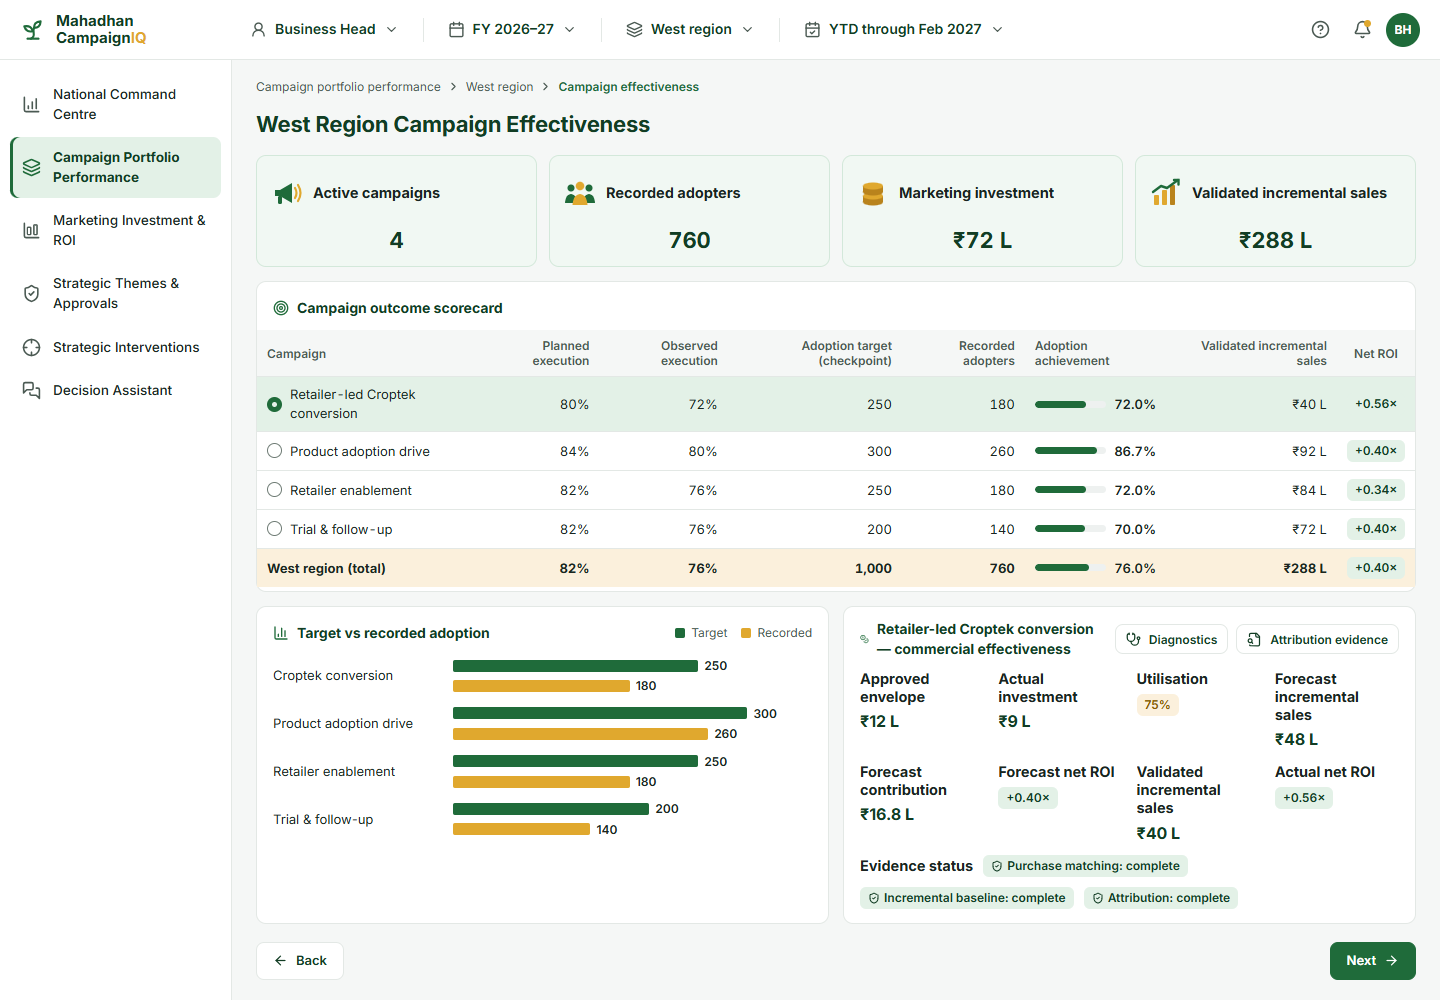
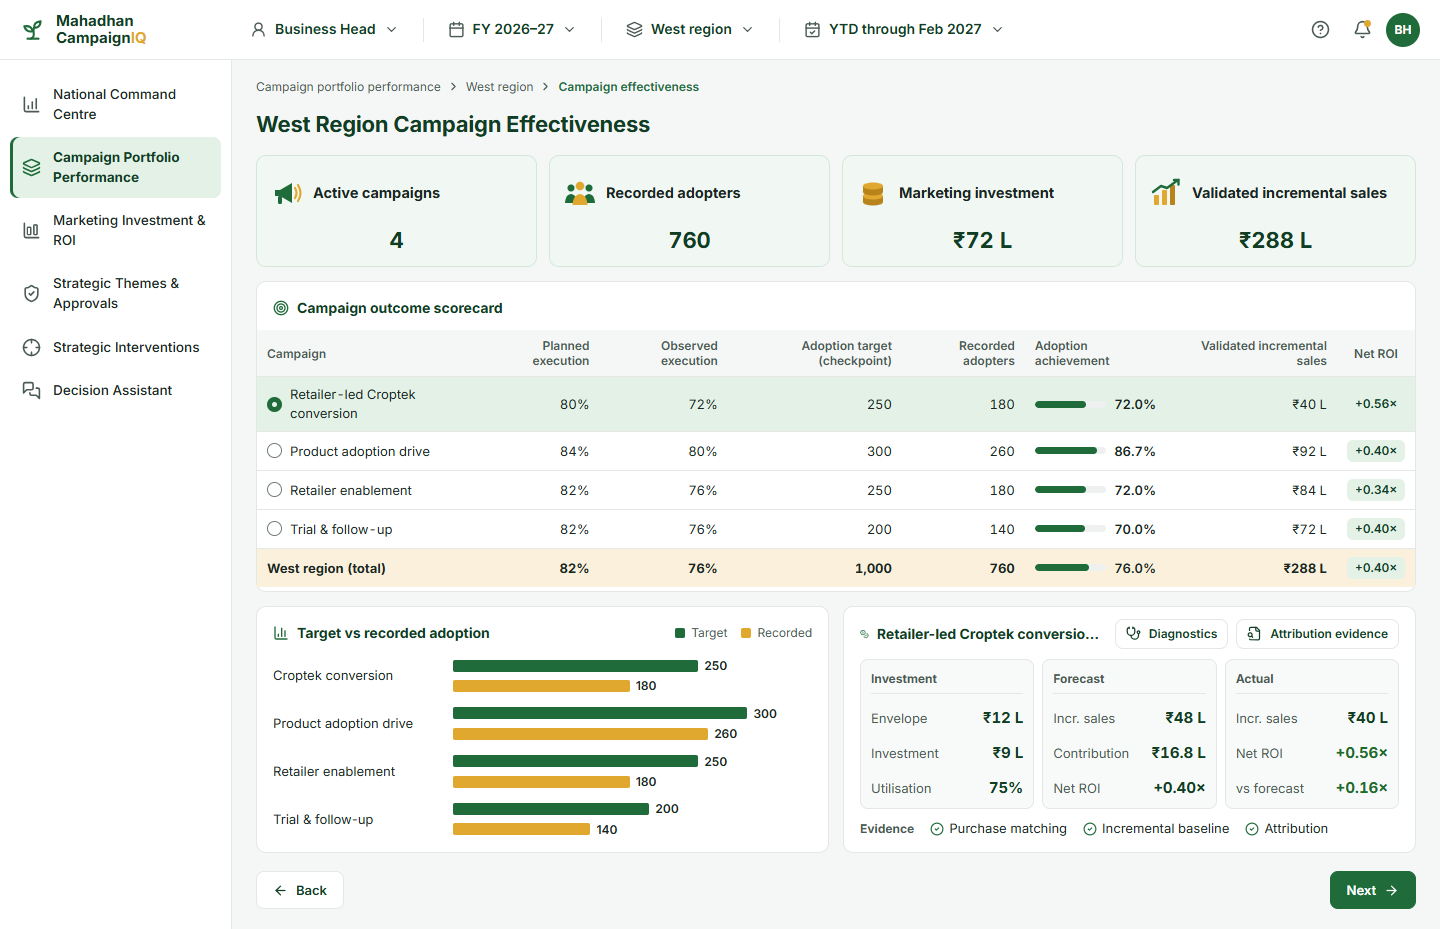
BH: tidy Croptek commercial effectiveness card

diff --git a/campaigniq-v3/src/screens/Effectiveness.tsx b/campaigniq-v3/src/screens/Effectiveness.tsx
@@ -1,5 +1,5 @@
 /** Screen 5 — Campaign Effectiveness (mockup BH.2a.png) with screen 6 — Campaign Diagnostics drawer (BH.2b.png). */
-import { ChartColumn, Coins, FileSearch, FileText, ShieldCheck, Stethoscope, Target } from 'lucide-react';
+import { CircleCheck, ChartColumn, Coins, FileSearch, FileText, Stethoscope, Target } from 'lucide-react';
 import { useState } from 'react';
 import { useSearchParams } from 'react-router-dom';
 import { AMBAD, ambadMetrics, businessCase, netRoi, regionRoi, campaignById, campaignMetrics, campaignsOf, campaignTotals, regionById, type Campaign, type CampaignId } from '../data/bh';
@@ -13,7 +13,7 @@ import { Drawer, EvidenceDrawer, type Evidence } from '../ui/overlay';
 import { useBhStore } from '../store/bhStore';
 import { useGo, useRouteRegion } from './common';
 
-const EVIDENCE_PENDING = ['Purchase matching', 'Incremental baseline', 'Attribution'];
+const EVIDENCE_ITEMS = ['Purchase matching', 'Incremental baseline', 'Attribution'];
 
 export function Effectiveness() {
   const go = useGo();
@@ -101,25 +101,22 @@ export function Effectiveness() {
 function CommercialStrip({ c, onDiagnostics, onEvidence }: { c: Campaign; onDiagnostics: () => void; onEvidence: () => void }) {
   const m = campaignMetrics(c);
   const bc = businessCase(c.id);
-  const cells: { label: string; value: React.ReactNode }[] = [
-    { label: 'Approved envelope', value: lakh(c.approved) },
-    { label: 'Actual investment', value: lakh(c.actual) },
-    { label: 'Utilisation', value: <StatusChip tone="warn">{pct(m.utilisationPct, 0)}</StatusChip> },
-    { label: 'Forecast incremental sales', value: lakh(bc.forecastSales) },
-    { label: 'Forecast contribution', value: lakh(bc.contribution) },
-    { label: 'Forecast net ROI', value: <StatusChip tone="ok">{times(bc.netRoi)}</StatusChip> },
-    { label: 'Validated incremental sales', value: lakh(bc.validatedSales) },
-    { label: 'Actual net ROI', value: <StatusChip tone="ok">{times(bc.actualRoi)}</StatusChip> },
+  const panels: { title: string; rows: { label: string; value: string; good?: boolean }[] }[] = [
+    { title: 'Investment', rows: [{ label: 'Envelope', value: lakh(c.approved) }, { label: 'Investment', value: lakh(c.actual) }, { label: 'Utilisation', value: pct(m.utilisationPct, 0) }] },
+    { title: 'Forecast', rows: [{ label: 'Incr. sales', value: lakh(bc.forecastSales) }, { label: 'Contribution', value: lakh(bc.contribution) }, { label: 'Net ROI', value: times(bc.netRoi) }] },
+    { title: 'Actual', rows: [{ label: 'Incr. sales', value: lakh(bc.validatedSales) }, { label: 'Net ROI', value: times(bc.actualRoi), good: true }, { label: 'vs forecast', value: times(bc.actualRoi - bc.netRoi), good: true }] },
   ];
   return (
-    <Card title={`${c.name} — commercial effectiveness`} icon={Coins} right={<><Button small icon={Stethoscope} onClick={onDiagnostics}>Diagnostics</Button><Button small icon={FileSearch} onClick={onEvidence}>Attribution evidence</Button></>}>
-      <div style={{ display: 'grid', gridTemplateColumns: 'repeat(4, minmax(0, 1fr))', gap: '12px 14px' }}>
-        {cells.map((x) => <div key={x.label}><div className="kpi-label">{x.label}</div><div className="strong" style={{ fontSize: 16, marginTop: 4 }}>{x.value}</div></div>)}
+    <Card className="ce-card" title={`${c.name} — commercial effectiveness`} icon={Coins} right={<><Button small icon={Stethoscope} onClick={onDiagnostics}>Diagnostics</Button><Button small icon={FileSearch} onClick={onEvidence}>Attribution evidence</Button></>}>
+      <div className="ce-panels">
+        {panels.map((p) => (
+          <div key={p.title} className="ce-panel">
+            <div className="ce-panel-title">{p.title}</div>
+            {p.rows.map((r) => <div key={r.label} className="ce-row"><span>{r.label}</span><b className={r.good ? 'good' : undefined}>{r.value}</b></div>)}
+          </div>
+        ))}
       </div>
-      <div className="row" style={{ marginTop: 'auto', flexWrap: 'wrap', gap: 10 }}>
-        <span className="kpi-label">Evidence status</span>
-        {EVIDENCE_PENDING.map((e) => <StatusChip key={e} tone="ok" icon={ShieldCheck}>{e}: complete</StatusChip>)}
-      </div>
+      <div className="ce-evidence"><span>Evidence</span>{EVIDENCE_ITEMS.map((e) => <span key={e} className="ce-ev"><CircleCheck size={14} />{e}</span>)}</div>
     </Card>
   );
 }

diff --git a/campaigniq-v3/src/styles.css b/campaigniq-v3/src/styles.css
@@ -186,3 +186,19 @@ textarea.input { height: auto; min-height: 60px; padding: 8px 10px; resize: vert
 .hbar .track { display: flex; align-items: center; gap: 6px; }
 .hbar .track i { display: block; height: 12px; border-radius: 2px; }
 .hbar .track b { font-size: 12px; font-weight: 600; white-space: nowrap; }
+
+/* ---------- commercial effectiveness card ---------- */
+.ce-card .card-head { flex-wrap: nowrap; }
+.ce-card .card-head h3 { flex: 1 1 0; min-width: 0; overflow: hidden; }
+.ce-card .card-head h3 .card-title-text { white-space: nowrap; overflow: hidden; text-overflow: ellipsis; min-width: 0; }
+.ce-card .card-head .right { flex-wrap: nowrap; flex: none; }
+.ce-panels { display: grid; grid-template-columns: repeat(3, minmax(0, 1fr)); gap: 8px; flex: 1; }
+.ce-panel { background: var(--panel-bg); border: 1px solid var(--line); border-radius: 8px; padding: 10px 10px; display: flex; flex-direction: column; justify-content: space-between; gap: 8px; }
+.ce-panel-title { font-size: 12px; font-weight: 700; color: var(--ink-soft); padding-bottom: 6px; border-bottom: 1px solid var(--line); }
+.ce-row { display: flex; justify-content: space-between; align-items: baseline; gap: 6px; }
+.ce-row span { font-size: 13px; color: var(--ink-soft); white-space: nowrap; overflow: hidden; text-overflow: ellipsis; }
+.ce-row b { font-size: 15px; font-weight: 700; color: var(--dark); font-variant-numeric: tabular-nums; white-space: nowrap; }
+.ce-row b.good { color: var(--ok-ink); }
+.ce-evidence { display: flex; align-items: center; gap: 16px; white-space: nowrap; font-size: 13px; color: var(--ink); overflow: hidden; }
+.ce-evidence > span:first-child { font-size: 12px; font-weight: 700; color: var(--ink-soft); }
+.ce-ev { display: inline-flex; align-items: center; gap: 5px; } .ce-ev svg { color: var(--brand); }

diff --git a/campaigniq-v3/src/theme.ts b/campaigniq-v3/src/theme.ts
@@ -21,6 +21,8 @@ export const C = {
   kpiBg: '#F1F8F3',
   kpiLine: '#D3E8DA',
   kpiInk: '#1A2420',
+  panelBg: '#F7FAF8',
+  okInk: '#1E6B2A',
 } as const;
 
 /** Chart series mapping, fixed across the workspace. */
@@ -34,7 +36,7 @@ const CSS_NAMES: Record<keyof typeof C, string> = {
   brand: '--brand', dark: '--dark', tint: '--tint', light: '--light', amber: '--amber', amberSoft: '--amber-soft',
   amberInk: '--amber-ink', risk: '--risk', riskSoft: '--risk-soft', neutral: '--neutral', ink: '--ink',
   inkSoft: '--ink-soft', muted: '--muted', line: '--line', canvas: '--canvas', card: '--card', overlay: '--overlay',
-  amberDark: '--amber-dark', kpiBg: '--kpi-bg', kpiLine: '--kpi-line', kpiInk: '--kpi-ink',
+  amberDark: '--amber-dark', kpiBg: '--kpi-bg', kpiLine: '--kpi-line', kpiInk: '--kpi-ink', panelBg: '--panel-bg', okInk: '--ok-ink',
 };
 
 export function applyTheme() {

diff --git a/campaigniq-v3/src/ui/core.tsx b/campaigniq-v3/src/ui/core.tsx
@@ -70,7 +70,7 @@ export function Card({ title, icon: Icon, note, right, children, flush, classNam
     <section className={`card${className ? ` ${className}` : ''}`} style={style}>
       {title && (
         <header className="card-head">
-          <h3>{Icon && <Icon size={16} />}{title}{note && <small>{note}</small>}</h3>
+          <h3>{Icon && <Icon size={16} />}<span className="card-title-text">{title}</span>{note && <small>{note}</small>}</h3>
           {right && <div className="right">{right}</div>}
         </header>
       )}
